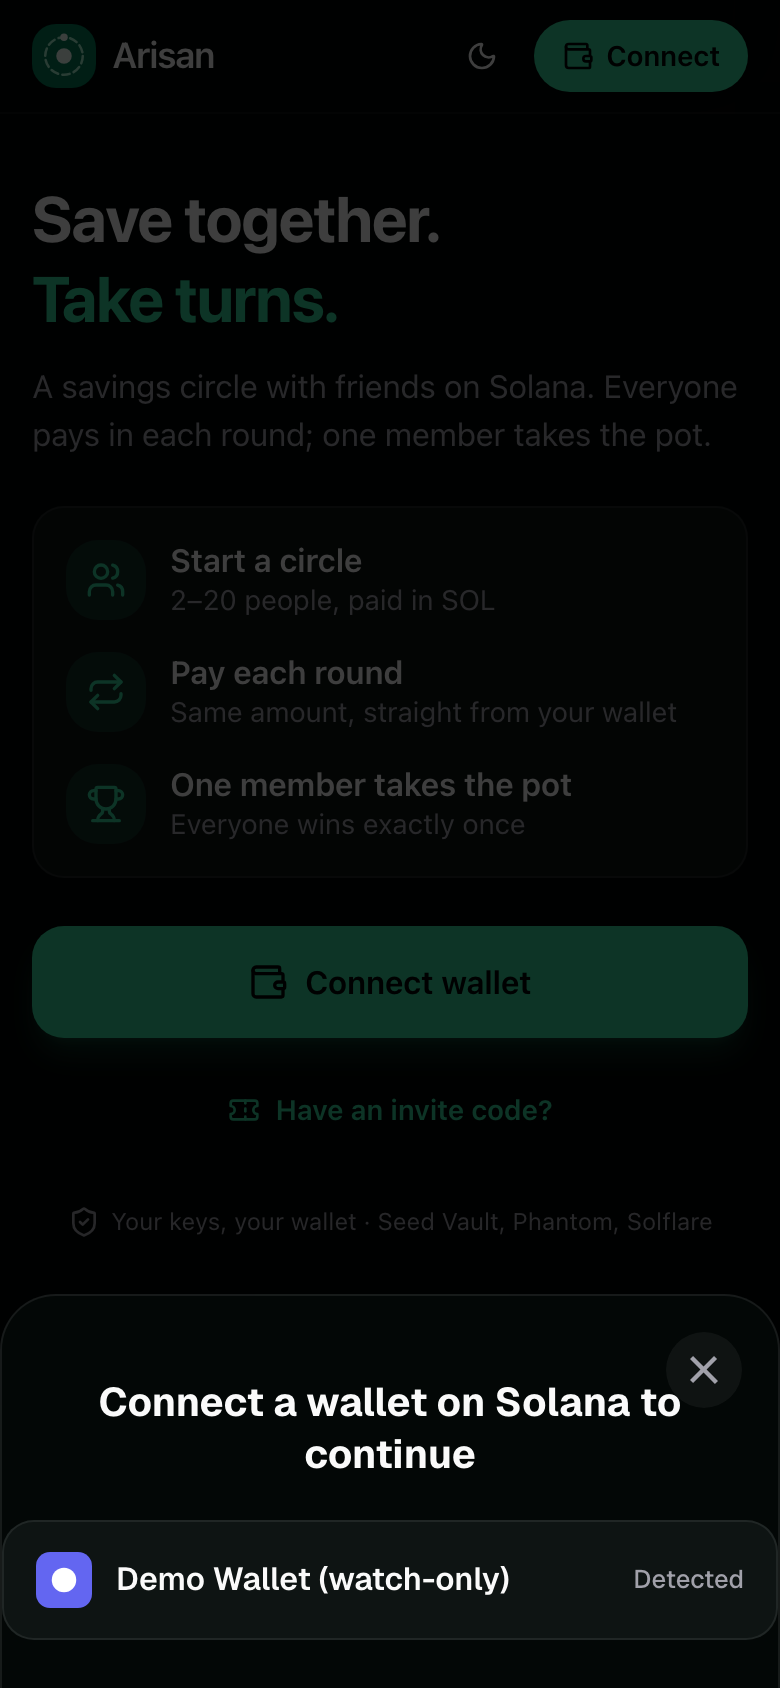
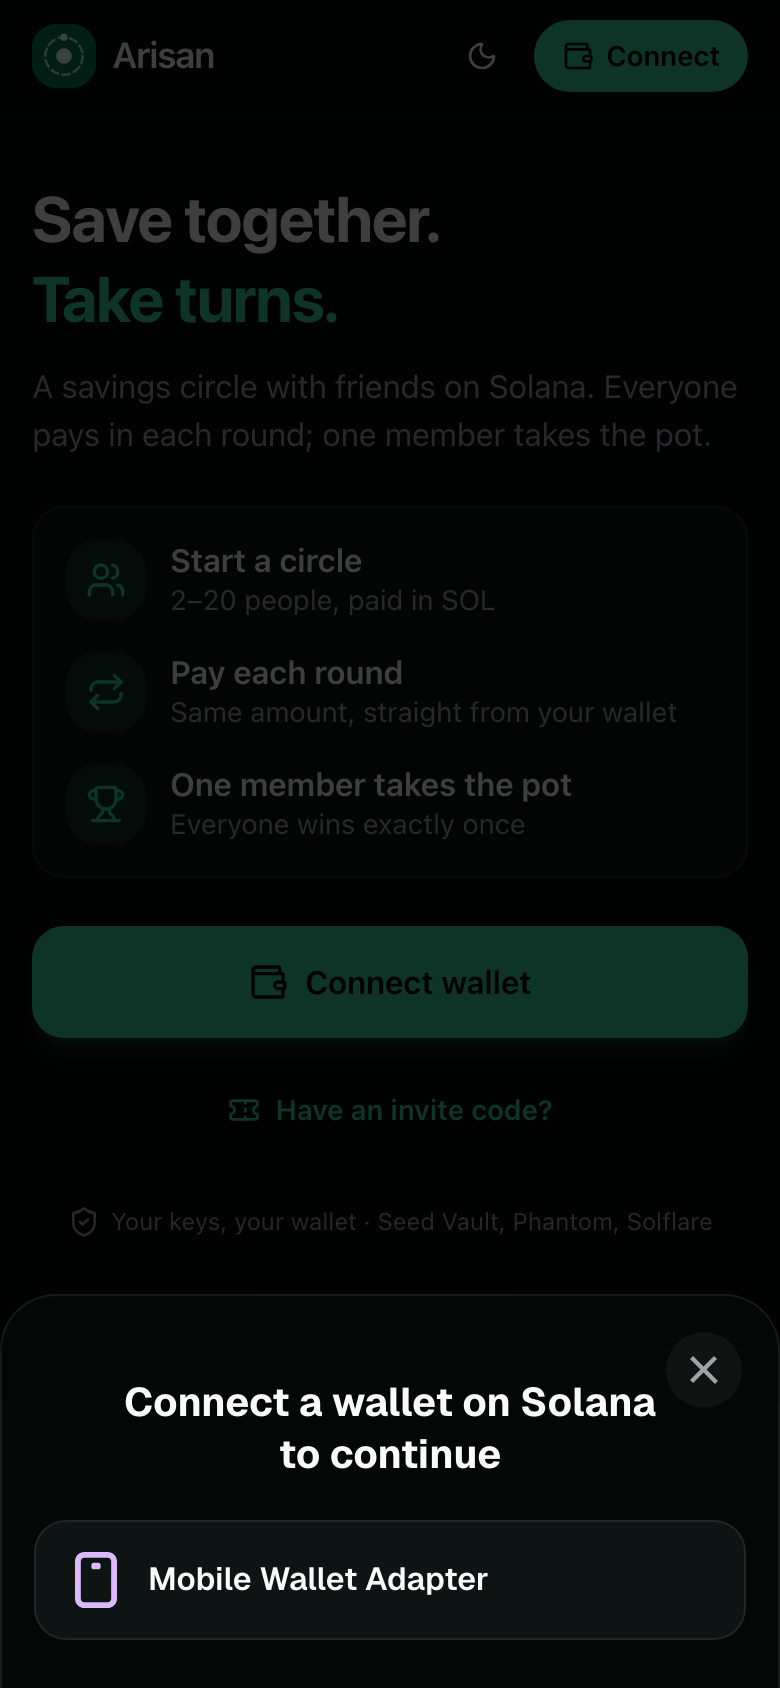
fix(ui): wallet sheet gutters, real MWA connect shots, next-draw home card

diff --git a/src/app/page.tsx b/src/app/page.tsx
@@ -100,7 +100,7 @@ function MyPools() {
       {nextDue && (
         <Link href={`/pools/${nextDue.id}`} className="block">
           <div className="mb-6 rounded-3xl bg-gradient-to-br from-emerald-500 to-emerald-700 p-5 text-white shadow-xl shadow-emerald-900/20">
-            <p className="text-sm font-medium text-emerald-100">Next payment · {nextDue.name}</p>
+            <p className="text-sm font-medium text-emerald-100">Next draw · {nextDue.name}</p>
             <p className="mt-1 text-4xl font-bold tracking-tight">
               {formatAmount(nextDue.monthlyAmount, nextDue.currency)}
             </p>
@@ -109,7 +109,7 @@ function MyPools() {
                 Round {nextDue.currentRound} of {nextDue.durationMonths}
               </span>
               <span className="font-medium">
-                {timeUntil(nextDue.nextDrawDate) ? `Draw in ${timeUntil(nextDue.nextDrawDate)}` : "Draw due"}
+                {timeUntil(nextDue.nextDrawDate) ? `In ${timeUntil(nextDue.nextDrawDate)}` : "Due now"}
               </span>
             </div>
           </div>

diff --git a/src/app/globals.css b/src/app/globals.css
@@ -633,6 +633,7 @@
 }
 
 .wallet-adapter-modal-wrapper {
+  box-sizing: border-box;
   width: 100%;
   max-width: 480px;
   margin: 0 auto;
@@ -650,7 +651,7 @@
   color: var(--foreground);
   font-size: 1.25rem;
   font-weight: 700;
-  padding: 2.5rem 1.5rem 1.25rem;
+  padding: 2.5rem 3.5rem 1.25rem;
   line-height: 1.3;
 }
 
@@ -662,8 +663,11 @@
   fill: var(--muted-foreground);
 }
 
-.wallet-adapter-modal-list {
+.wallet-adapter-modal-wrapper .wallet-adapter-modal-list {
+  width: auto;
+  align-self: stretch;
   margin: 0 1rem;
+  padding: 0;
 }
 
 .wallet-adapter-modal-list li {
